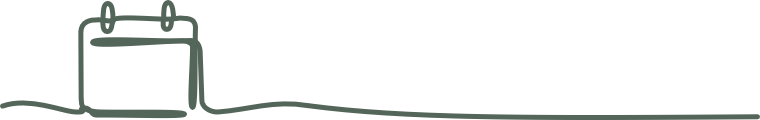
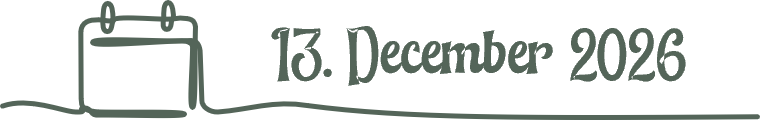
feat(advent-glow): Detailzeilen durch neue Grafiken inkl. Text ersetzen
Die vier Zeilen (Ort, Gruppe, Datum, Uhrzeit) sind jetzt komplette Bilder
mit eingebettetem Text; Sage-Kreis und HTML-Textoverlay entfallen.
Alt-Texte tragen den Inhalt.

Claude-Session: https://claude.ai/code/session_01CS1r9pL8APMts6vXqiCiAa

Changed region(s): [[0.0, 0.0, 1.0, 1.0], [0.3329, 0.2, 0.9079, 0.675]]

diff --git a/public/advent-glow/index.html b/public/advent-glow/index.html
@@ -39,9 +39,7 @@ body{font-family:var(--body);font-size:16px;line-height:1.55;
 
 .details{display:flex;flex-direction:column;gap:clamp(30px, 9vw, 46px);margin:0;padding:24px 0 8px;list-style:none}
 .row{position:relative}
-.row::before{content:"";position:absolute;left:var(--cx);top:46%;width:24%;aspect-ratio:1;max-width:100%;border-radius:50%;background:var(--sage);transform:translate(-50%,-50%)}
 .row img:not(.deco){position:relative;display:block;width:100%;max-width:100%;height:auto}
-.row p{position:absolute;left:33%;right:0;bottom:16%;margin:0;font-family:var(--display);font-size:clamp(1.05rem, 5.4vw, 1.6rem);line-height:1.1;white-space:nowrap;min-width:0}
 
 .deco{position:absolute;z-index:2;height:auto;pointer-events:none;will-change:transform}
 .spin{animation:spin 28s linear infinite}
@@ -79,7 +77,6 @@ fieldset{border:0;margin:0;padding:0;display:flex;flex-direction:column;gap:8px}
 .msg{background:var(--sage);border-radius:14px;padding:14px 16px;white-space:pre-wrap;font-weight:500;margin:0;user-select:all;overflow-wrap:anywhere}
 .hint{font-size:.85rem;color:var(--ink-soft);margin:0}
 .link{background:none;border:0;color:var(--ink);font:600 .95rem var(--body);text-decoration:underline;cursor:pointer;padding:4px;align-self:center}
-.row sup{font-size:.6em;vertical-align:super;line-height:0;margin-left:1px}
 .foot{padding-inline:56px;text-wrap:balance;text-align:center;font-family:var(--hand);font-size:1.6rem;margin:0;color:var(--ink-soft)}
 .address{padding-inline:56px;text-wrap:balance;text-align:center;font-size:.85rem;font-weight:500;color:var(--ink-soft);margin:-12px 0 0}
 .address .nw{white-space:nowrap}
@@ -100,10 +97,10 @@ fieldset{border:0;margin:0;padding:0;display:flex;flex-direction:column;gap:8px}
 
 
   <ul class="details">
-    <li class="row" style="--cx:17.6%"><img src="row-people.png" width="762" height="114" alt=""><p>A little Advent Glow</p><img class="deco beat" src="heart.png" alt="" style="top:-92%;left:3%;width:7%;max-width:34px"><img class="deco twinkle" src="star.png" alt="" style="top:-78%;right:14%;width:8%;max-width:36px;animation-delay:-1.4s"></li>
-    <li class="row" style="--cx:18.4%"><img src="row-date.png" width="760" height="120" alt=""><p>13. December 2026</p><img class="deco spin" src="flake.png" alt="" style="top:-34%;left:0;width:11%;max-width:50px;animation-duration:22s;animation-direction:reverse"></li>
-    <li class="row" style="--cx:18.3%"><img src="row-time.png" width="761" height="140" alt=""><p>Doors open at 4 pm</p><img class="deco beat" src="heart.png" alt="" style="bottom:-6%;right:-3%;width:8%;max-width:38px;animation-delay:-1.1s"></li>
-    <li class="row" style="--cx:18.1%"><img src="row-place.png" width="763" height="121" alt=""><p>Home of Mulled Wine<sup>*</sup></p></li>
+    <li class="row"><img src="row-people.png" width="762" height="123" alt="A little Advent Glow"><img class="deco beat" src="heart.png" alt="" style="top:-92%;left:3%;width:7%;max-width:34px"><img class="deco twinkle" src="star.png" alt="" style="top:-78%;right:14%;width:8%;max-width:36px;animation-delay:-1.4s"></li>
+    <li class="row"><img src="row-date.png" width="765" height="129" alt="13. December 2026"><img class="deco spin" src="flake.png" alt="" style="top:-34%;left:0;width:11%;max-width:50px;animation-duration:22s;animation-direction:reverse"></li>
+    <li class="row"><img src="row-time.png" width="780" height="140" alt="Doors open at 4 pm"><img class="deco beat" src="heart.png" alt="" style="bottom:-6%;right:-3%;width:8%;max-width:38px;animation-delay:-1.1s"></li>
+    <li class="row"><img src="row-place.png" width="814" height="135" alt="Home of Mulled Wine* – And Potato Pancakes"></li>
   </ul>
 
   <section class="card" id="rsvp" aria-labelledby="rsvp-h">
